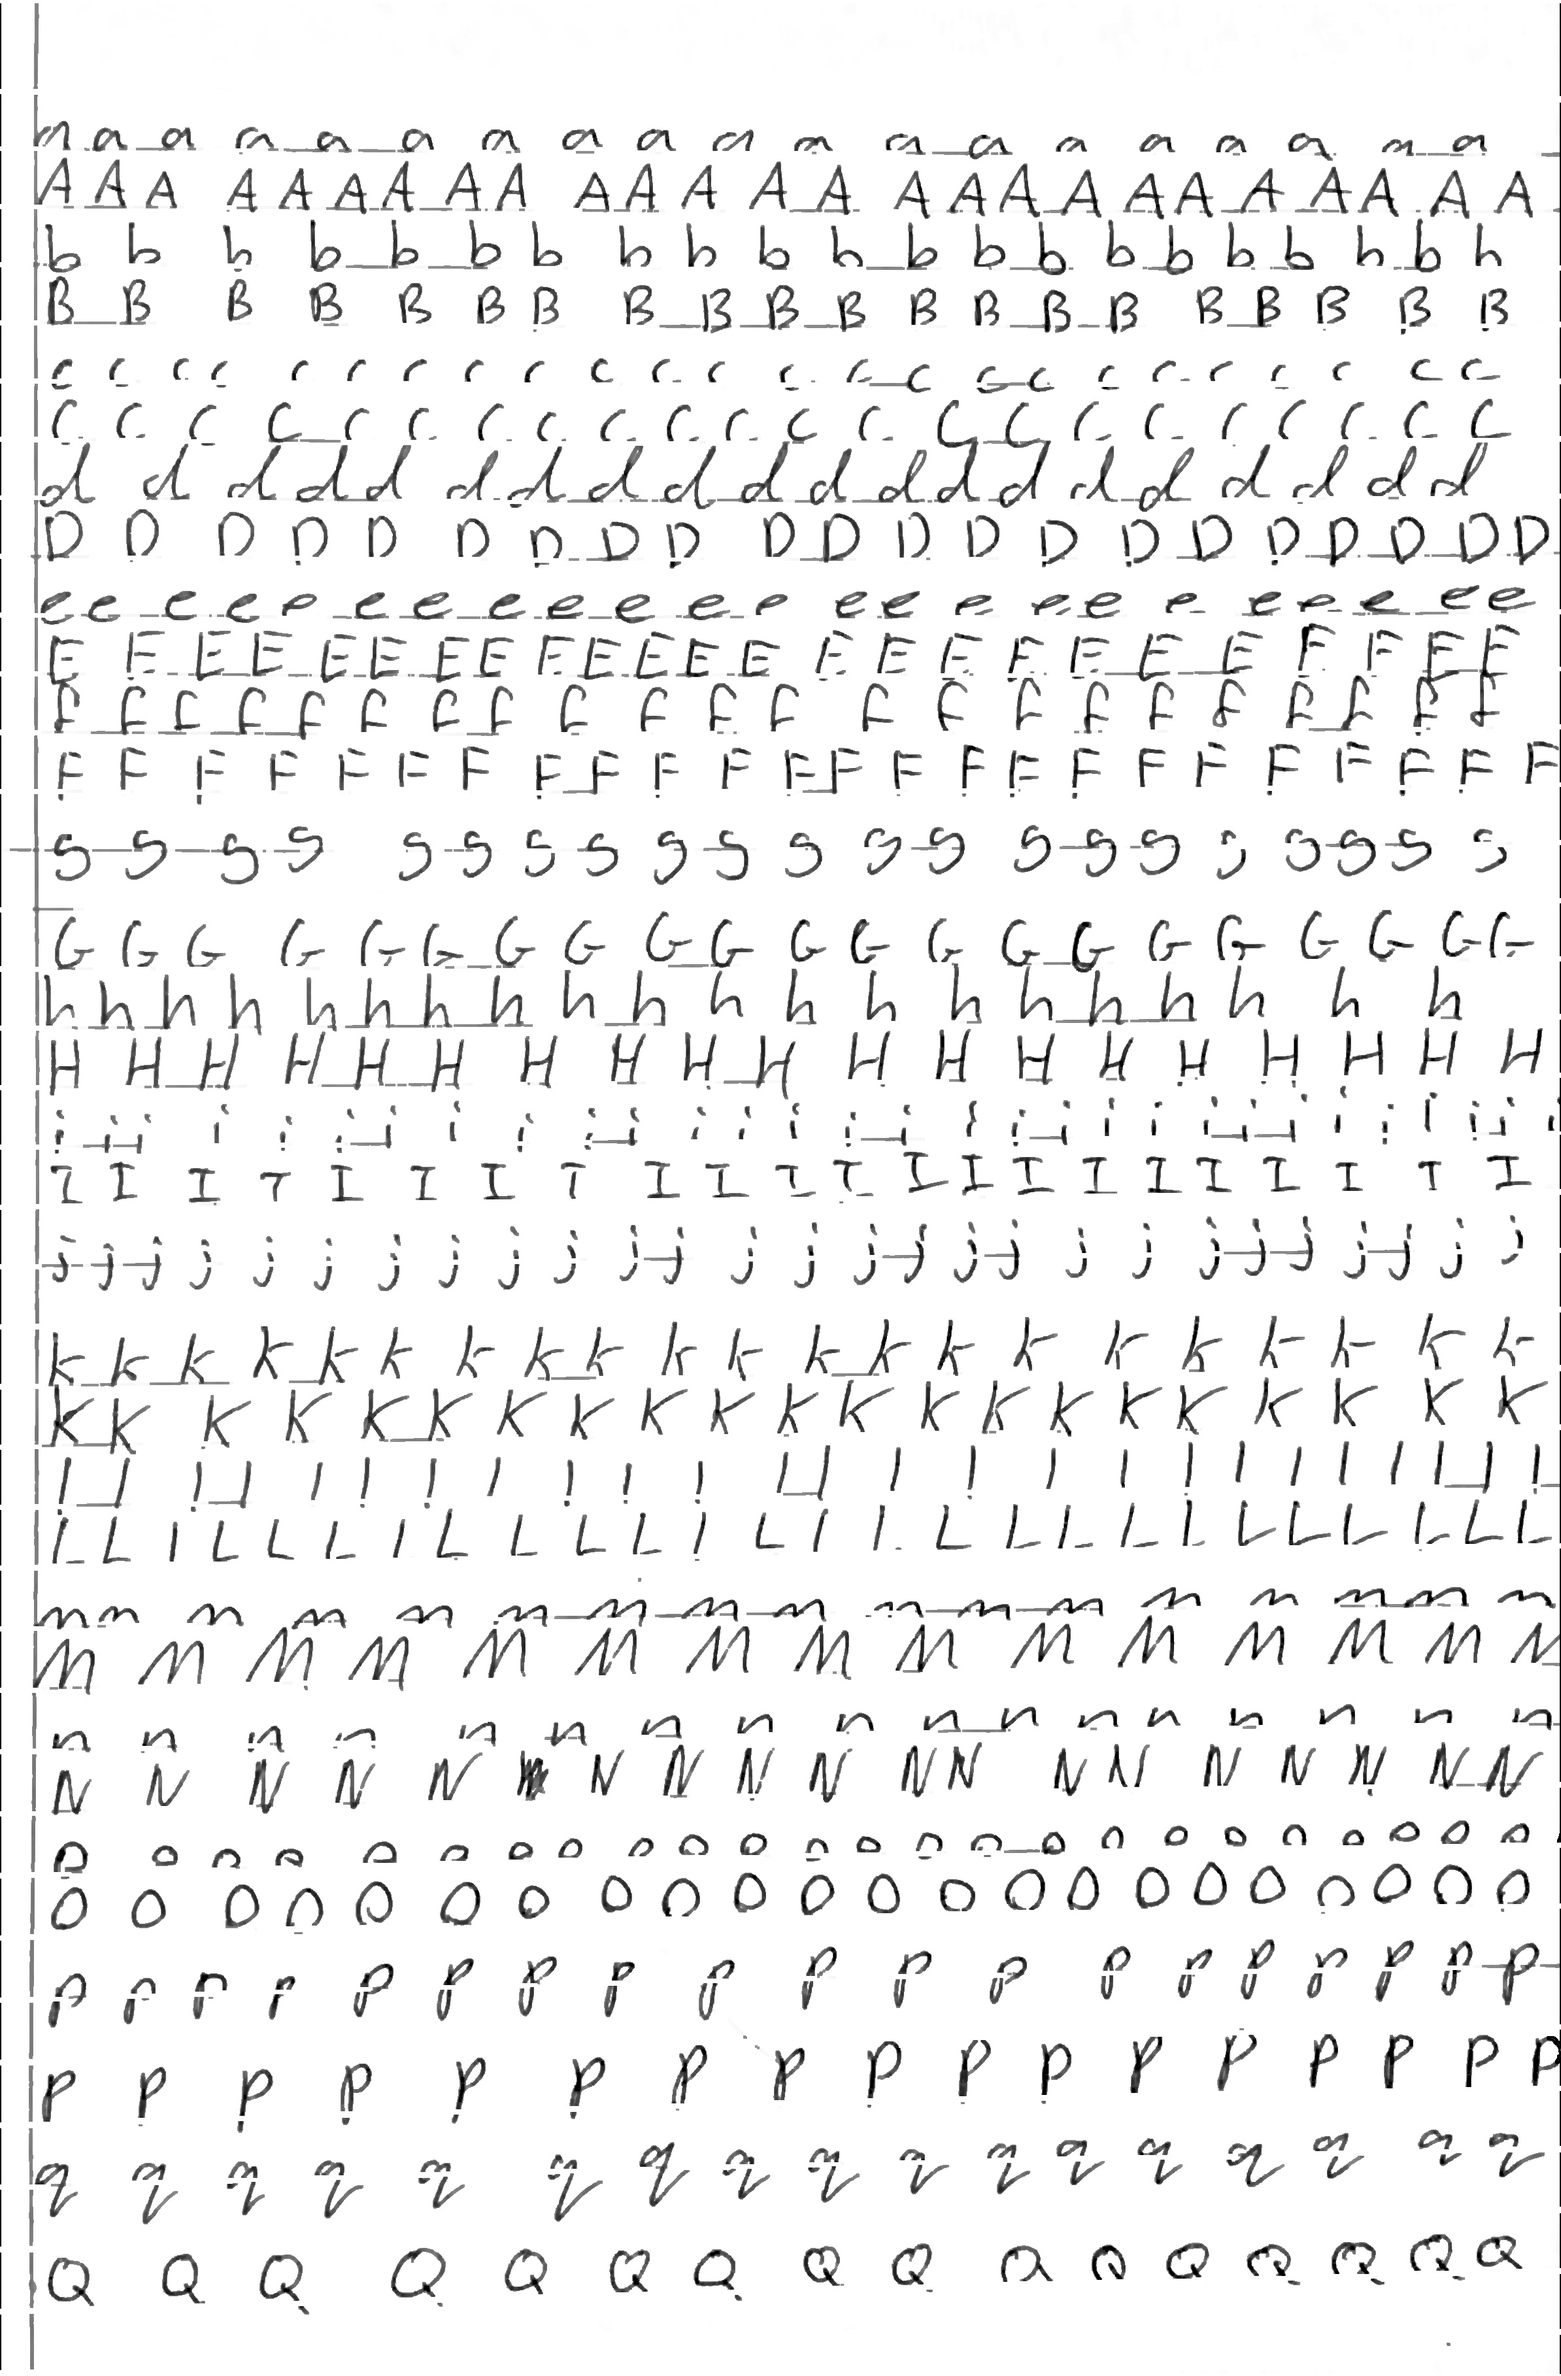
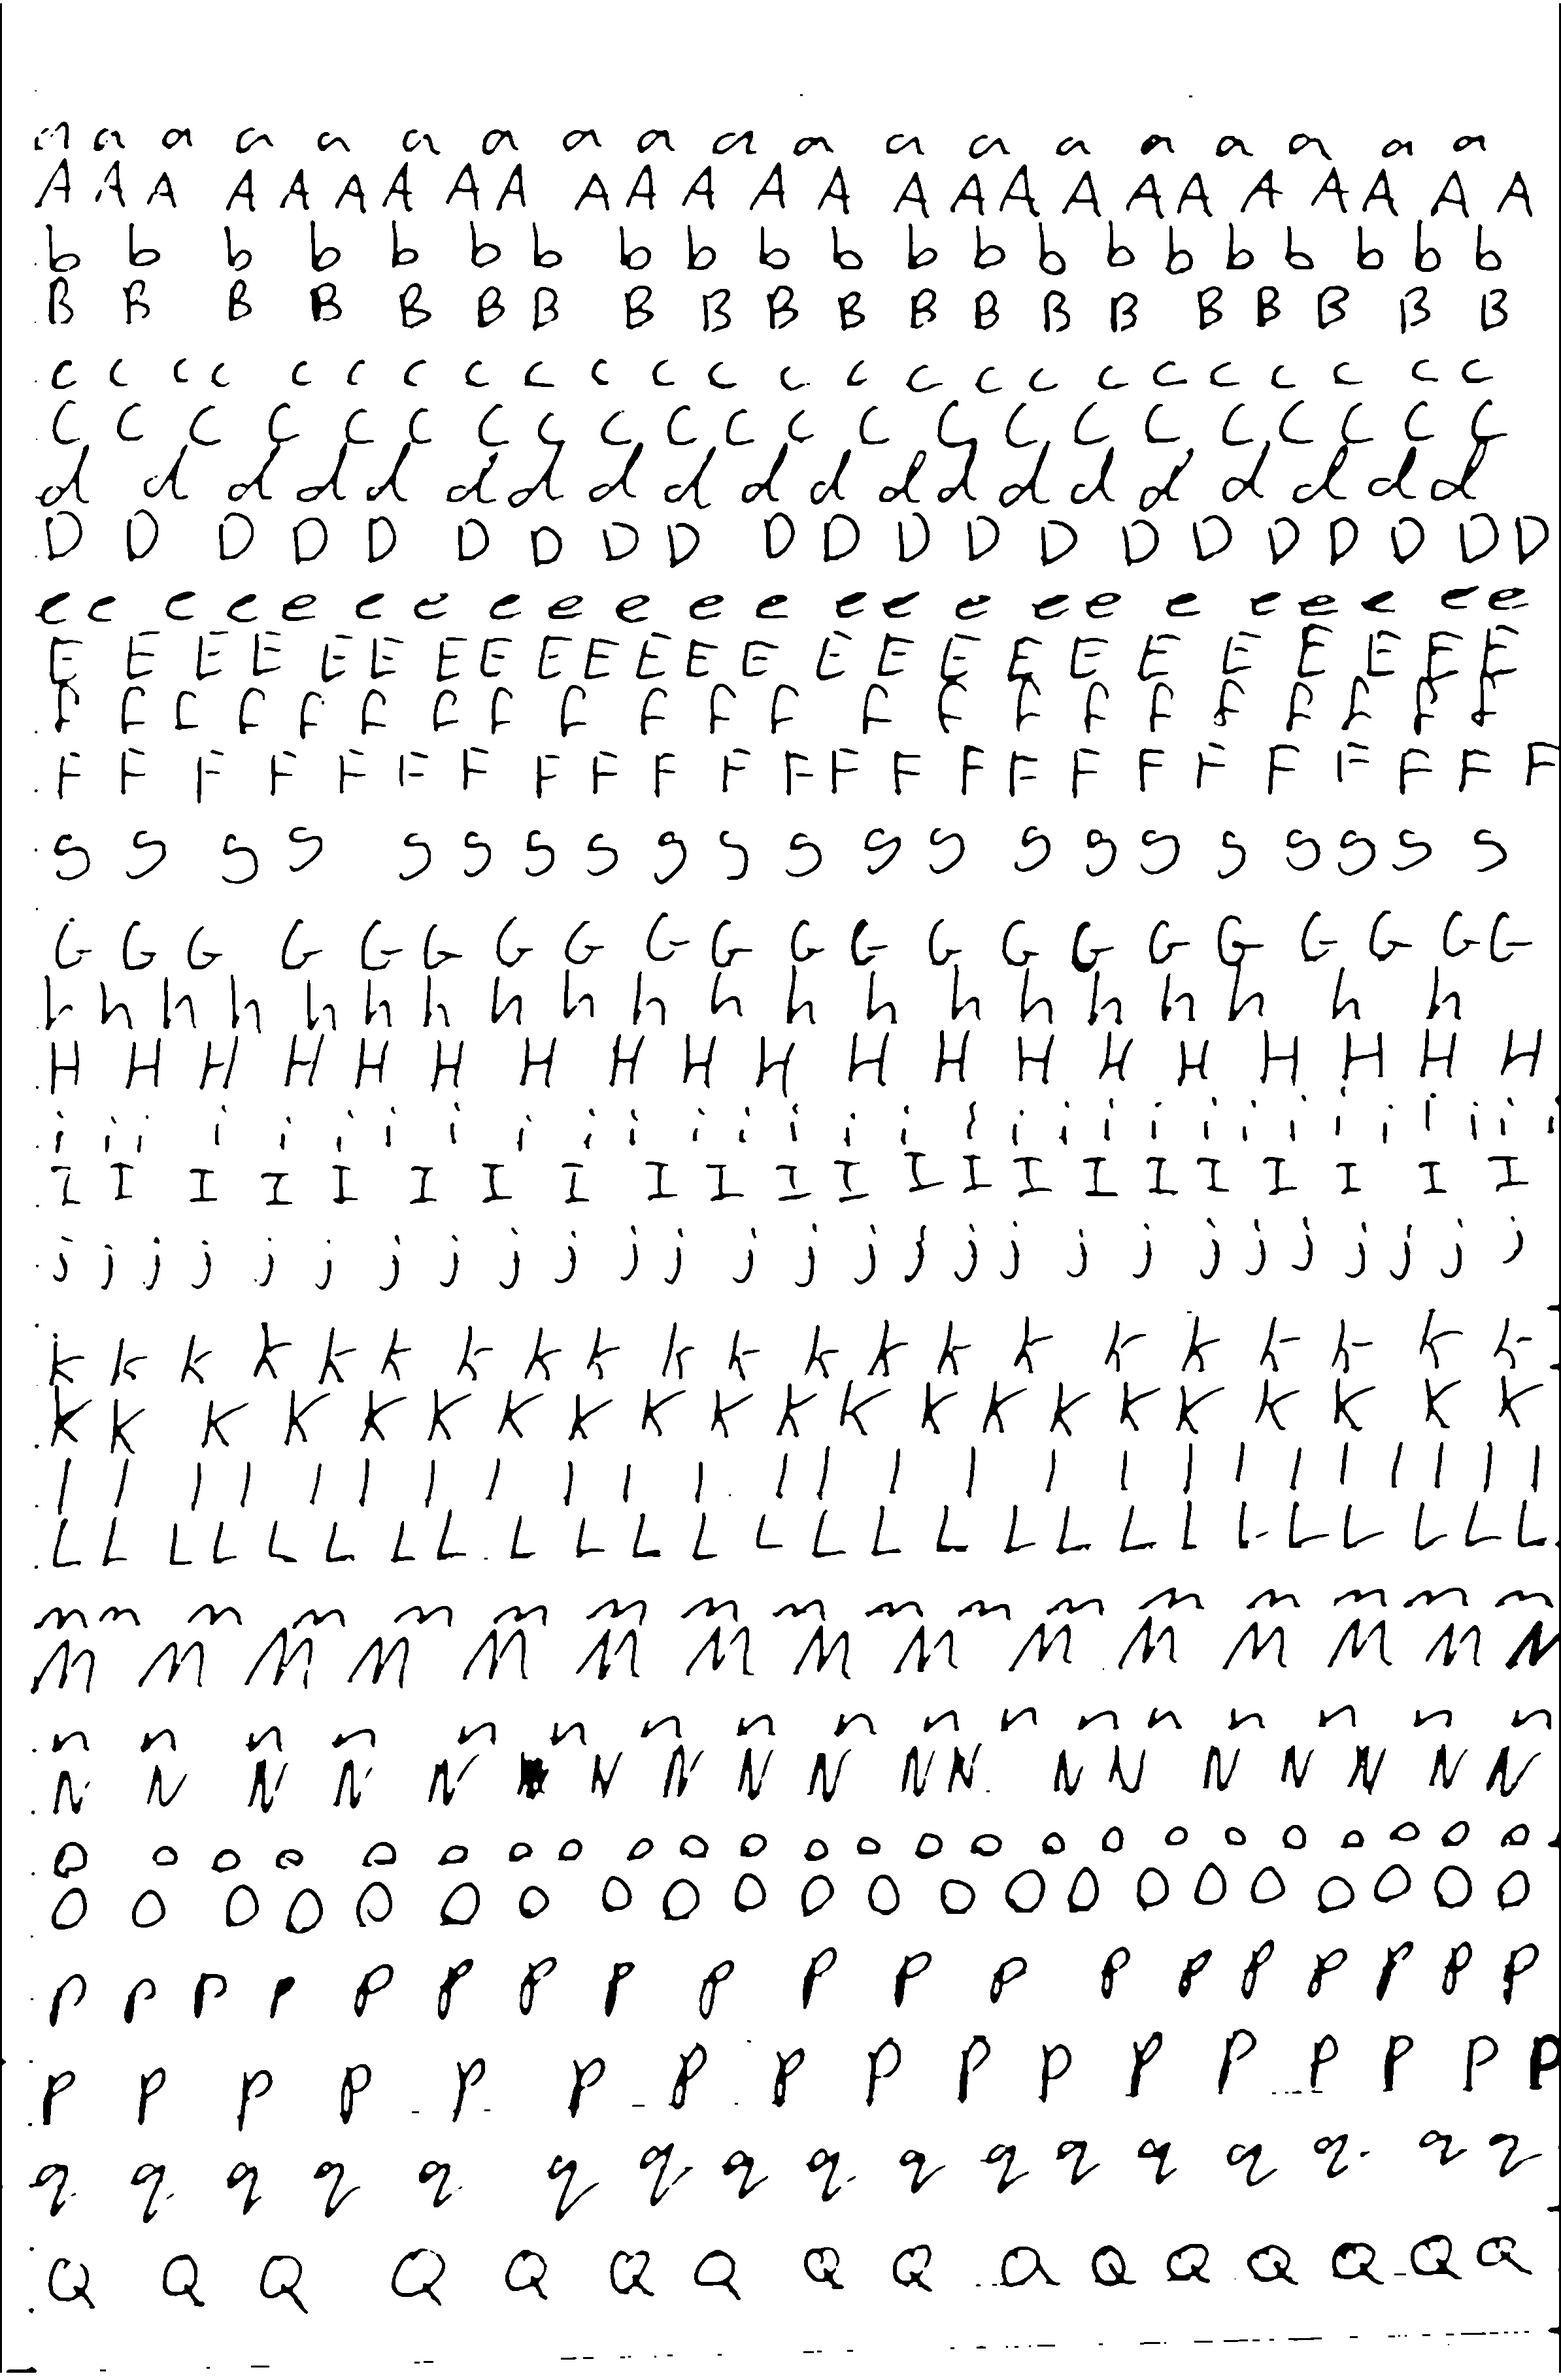
added option to apply horizontal line removal when processing images in the folder. added checks to ensure image is greyscale when processed. changed thresholding method back to otsu's. fixed letter closing. added medianblur to remove artifacting lines. added checks for output path availability. add

diff --git a/image_processing.py b/image_processing.py
@@ -7,33 +7,38 @@ import os
 
 def hor_line_removal(image):
     """
-    hor_line_removal() takes in an image (black and white) and then detects and removed the horizontal lines
+    hor_line_removal() takes in an image (black and white) and then detects and removed the horizontal lines,
+    modified from user nathancy, https://stackoverflow.com/a/59977864
     :param image: an ndarray
     :return hor_lines_removed: an nd array, horizontal lines removed
     """
-    # modified from user nathancy, https://stackoverflow.com/a/59977864
 
-    denoised = cv2.fastNlMeansDenoising(image, None, h=5, templateWindowSize=10, searchWindowSize=25)
+    # making sure the input image is greyscale, so it can be passed to the thresholding function
+    if len(image.shape) == 2:
+        grayed = image  # Image is already grayscale
+    else:
+        # Convert the image to grayscale
+        grayed = cv2.cvtColor(image, cv2.COLOR_BGR2GRAY)
+
+    denoised = cv2.fastNlMeansDenoising(grayed, None, h=5, templateWindowSize=10, searchWindowSize=25)
     thresh = cv2.threshold(denoised, 0, 255, cv2.THRESH_BINARY_INV + cv2.THRESH_OTSU)[1]
 
     # Detect horizontal lines
-    horizontal_kernel = cv2.getStructuringElement(cv2.MORPH_RECT, (70, 2))
+    horizontal_kernel = cv2.getStructuringElement(cv2.MORPH_RECT, (100, 5))
     detect_horizontal = cv2.morphologyEx(thresh, cv2.MORPH_OPEN, horizontal_kernel, iterations=1)
     contours = cv2.findContours(detect_horizontal, cv2.RETR_EXTERNAL, cv2.CHAIN_APPROX_SIMPLE)
     contours = contours[0] if len(contours) == 2 else contours[1]
 
     for c in contours:
         cv2.drawContours(image, [c], -1, (255, 255, 255), thickness=3)
-    # Test
-    plt.imshow(image)
-    plt.show()
-    # smooths the resulting image to fill in any holes present in the letters.
-    kernel = cv2.getStructuringElement(cv2.MORPH_RECT, (3, 3))
-    hor_lines_removed = cv2.morphologyEx(image, cv2.MORPH_CLOSE, kernel)
-    # Test
-    plt.imshow(hor_lines_removed)
-    plt.show()
-    return hor_lines_removed
+
+    # # smooths the resulting image to fill in any holes present in the letters. the inversion is because it fills in the
+    # # image with white where I need it to fill in the image with black (the handwriting), larger ksize fills in more
+    # inverted = cv2.bitwise_not(image)
+    # kernel = cv2.getStructuringElement(cv2.MORPH_RECT, (4, 4))
+    # morph = cv2.morphologyEx(inverted, cv2.MORPH_CLOSE, kernel)
+    # hor_lines_removed = cv2.bitwise_not(morph)
+    return image
 
 
 def preprocess_image(path):
@@ -44,6 +49,7 @@ def preprocess_image(path):
     :return: result an ndarray (2 dimensions), the image after the processing has been applied, two colours only
     """
 
+    # Read in the image and convert it to greyscale, so it only has width and height (2D)
     image = cv2.imread(path)
     grayed = cv2.cvtColor(image, cv2.COLOR_BGR2GRAY)
 
@@ -55,42 +61,37 @@ def preprocess_image(path):
     # correct range (0-255). This is contrast normalisation, highlighting the edges/details (words).
     divided = cv2.divide(denoised, blurred, scale=255)
 
-    # DIFFERENT THRESHOLDING METHODS
-
-    # # sets the image to be in black and white only using Otsu's algorithm/method
-    # # (maximising variance between classes of pixels)
-    # thresh = cv2.threshold(divided, 0, 255, cv2.THRESH_BINARY + cv2.THRESH_OTSU)[1]
-
-    # sets the image to be in black and white only using ToZero thresholding
-    thresh = cv2.threshold(divided, 128, 255, cv2.THRESH_BINARY + cv2.THRESH_TOZERO)[1]
+    # sets the image to be in black and white only using Otsu's algorithm/method
+    # based on maximising the variance between classes of pixels
+    thresh = cv2.threshold(divided, 0, 255, cv2.THRESH_BINARY + cv2.THRESH_OTSU)[1]
 
     # Find contours which are edges/letters and draw them on a blank image to create a mask
     contours = cv2.findContours(thresh, cv2.RETR_EXTERNAL, cv2.CHAIN_APPROX_SIMPLE)[0]
     contour_image = np.zeros_like(thresh)
-    cv2.drawContours(contour_image, contours, -1, 255, 2)
+    cv2.drawContours(contour_image, contours, -1, 255, 3)
 
-    # smooths the resulting image to fill in any holes present in the letters.
-    kernel = cv2.getStructuringElement(cv2.MORPH_RECT, (4, 4))
-    morph = cv2.morphologyEx(thresh, cv2.MORPH_CLOSE, kernel)
+    # smooths the resulting image to fill in any holes present in the letters. the inversion is because it fills in the
+    # image with white where I need it to fill in the image with black (the handwriting), larger ksize fills in more
+    inverted = cv2.bitwise_not(thresh)
+    kernel = cv2.getStructuringElement(cv2.MORPH_RECT, (6, 6))
+    morph = cv2.morphologyEx(inverted, cv2.MORPH_CLOSE, kernel)
+    morph = cv2.bitwise_not(morph)
 
     # Invert the mask and apply to the morphology result
     inverted_contour_mask = cv2.bitwise_not(contour_image)
     result = cv2.bitwise_and(morph, morph, mask=inverted_contour_mask)
 
-    # # adjusting darkness of text
-    # row, col = result.shape
-    # for i in range(row):
-    #     for j in range(col):
-    #         if 244 > result[i][j] > 100:
-    #             result[i][j] -= 100
-    result[(result > 100) & (result < 245)] -= 100
-    return result
+    # applying a median blur to get rid of all the thin lines/artifacts that get leftover
+    median = cv2.medianBlur(result, 5)
+
+    return median
 
 
-def process_images_in_folder(input_folder, output_folder):
+def process_images_in_folder(input_folder, output_folder, ruled_paper):
     """
     process_images_in_folder() processes all images in a folder and then writes them to the specified folder, if the
     output folder does not exist it creates it.
+    :param ruled_paper: whether the sample handwriting is written on ruled paper, if it is the lines need to be removed
     :param input_folder: relative path to the folder containing images for processing
     :param output_folder: relative path to the destination folder for the processed images
     """
@@ -105,11 +106,17 @@ def process_images_in_folder(input_folder, output_folder):
     for image_file in image_files:
         input_path = os.path.join(input_folder, image_file)
         output_path = os.path.join(output_folder, f'processed_{image_file}')
+        # if the output path already exists (a processed image of the same name) we keep trying new output paths
+        i = 0
+        while os.path.exists(output_path):
+            output_path = os.path.join(output_folder, f'processed{i}_{image_file}')
+            i += 1
 
         processed_image = preprocess_image(input_path)
-        final_processed_image = hor_line_removal(processed_image)
+        if ruled_paper:
+            processed_image = hor_line_removal(processed_image)
         # Save the processed image
-        cv2.imwrite(output_path, final_processed_image)
+        cv2.imwrite(output_path, processed_image)
 
 
 def segment_words(input_path, output_folder, min_contour_area):

diff --git a/main.py b/main.py
@@ -1,4 +1,6 @@
+import matplotlib.pyplot as plt
 import image_processing
+import cv2
 
 
 # The goal of the project is to be able to take images as input (in my handwriting) and for a machine learning model
@@ -16,9 +18,17 @@ import image_processing
 # image of handwriting, and it outputs the text.
 
 # I think I need to edit the process images in folder function so that it doesn't use the remove hor lines function
-# and then write all my samples on lineless paper.
+# and then write all my samples on plain paper.
+
+# https://opencv24-python-tutorials.readthedocs.io/en/latest/py_tutorials/py_tutorials.html
 
 
-# image_processing.process_images_in_folder('sample_handwriting', 'contrast_handwriting')
+def main():
+    image_processing.process_images_in_folder('sample_handwriting', 'contrast_handwriting', True)
 
-image_processing.segment_words('contrast_handwriting/processed_alphabet_a_to_q.jpeg', 'individual_letters', 2000)
+    image_processing.segment_words('contrast_handwriting/processed_alphabet_a_to_q.jpeg', 'individual_letters', 2000)
+
+
+if __name__ == "__main__":
+    main()
+

diff --git a/word_classification.py b/word_classification.py
@@ -1,11 +1,8 @@
 import cv2
 import os
 import tkinter as tk
-
-import cv2
-import os
-import tkinter as tk
 from PIL import Image, ImageTk  # Import the Image and ImageTk modules from the PIL library
+
 
 class ImageLabeler:
     # chatGPT did this whole function to speed up image classification so i could focus on the image processing and
